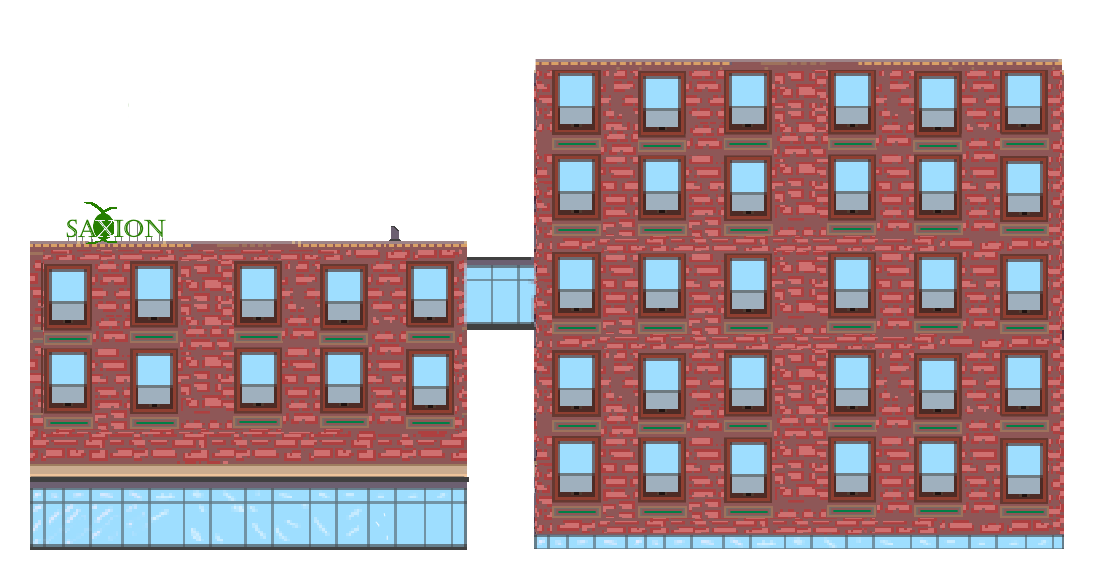
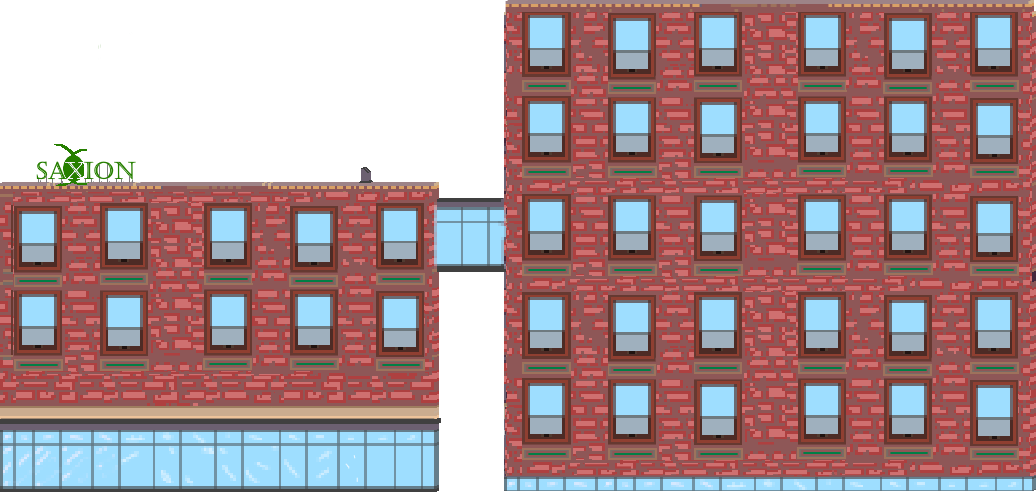
converted redbuilding.png to correct x,y (0,0) and created a Y variable for building height caluclated from gameHeight

diff --git a/src/GamePanel.java b/src/GamePanel.java
@@ -51,6 +51,7 @@ public class GamePanel extends JPanel implements Runnable, MouseListener {
 
     //game screen variables
     int balance;
+    int placeBuildingY;
 
     public GamePanel() throws UnsupportedAudioFileException, IOException, LineUnavailableException {
         //panel properties
@@ -123,6 +124,7 @@ public class GamePanel extends JPanel implements Runnable, MouseListener {
         //draw game screen
         if (currentScreenActive==1) {
             //TODO draw game screen
+            g2D.drawImage(redBuilding,gameWidth/2-redBuilding.getWidth(null)/2,placeBuildingY,null);
         }
 
         g2D.dispose();
@@ -359,6 +361,7 @@ public class GamePanel extends JPanel implements Runnable, MouseListener {
 
         //game screen properties
         balance = 0;
+        placeBuildingY = gameHeight/9*2;
     }
 
     public void startGame() {
